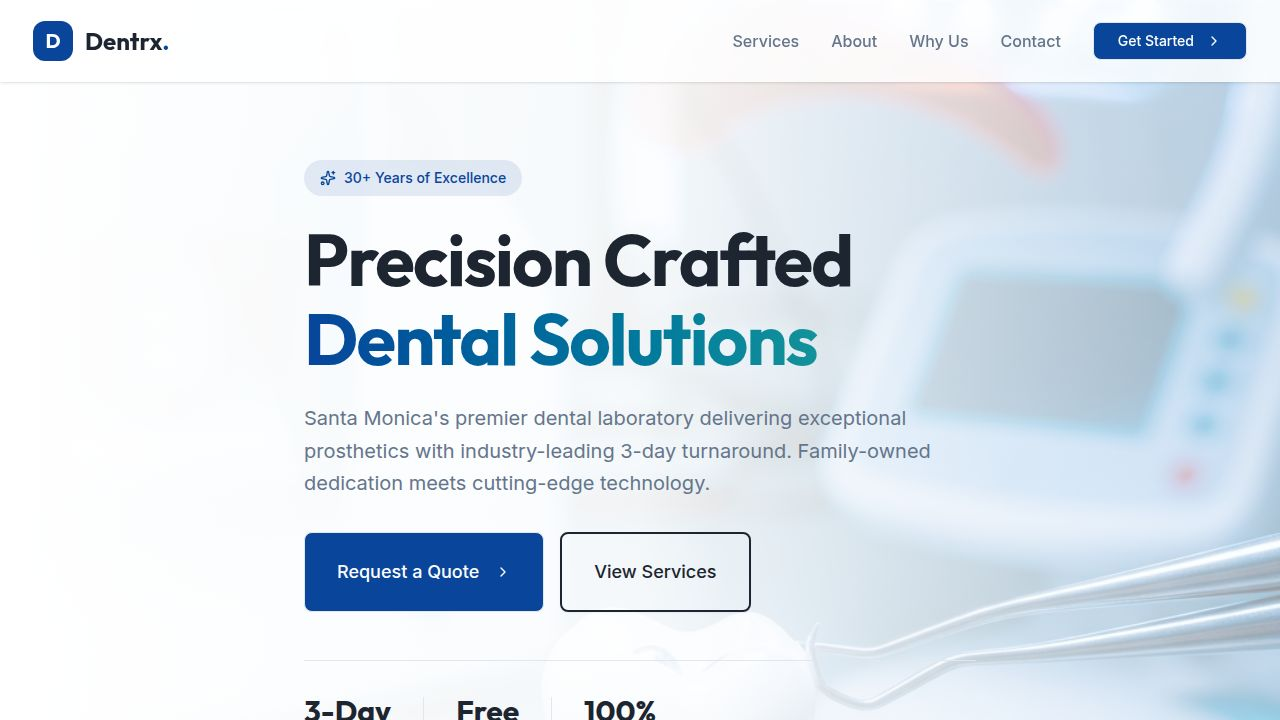
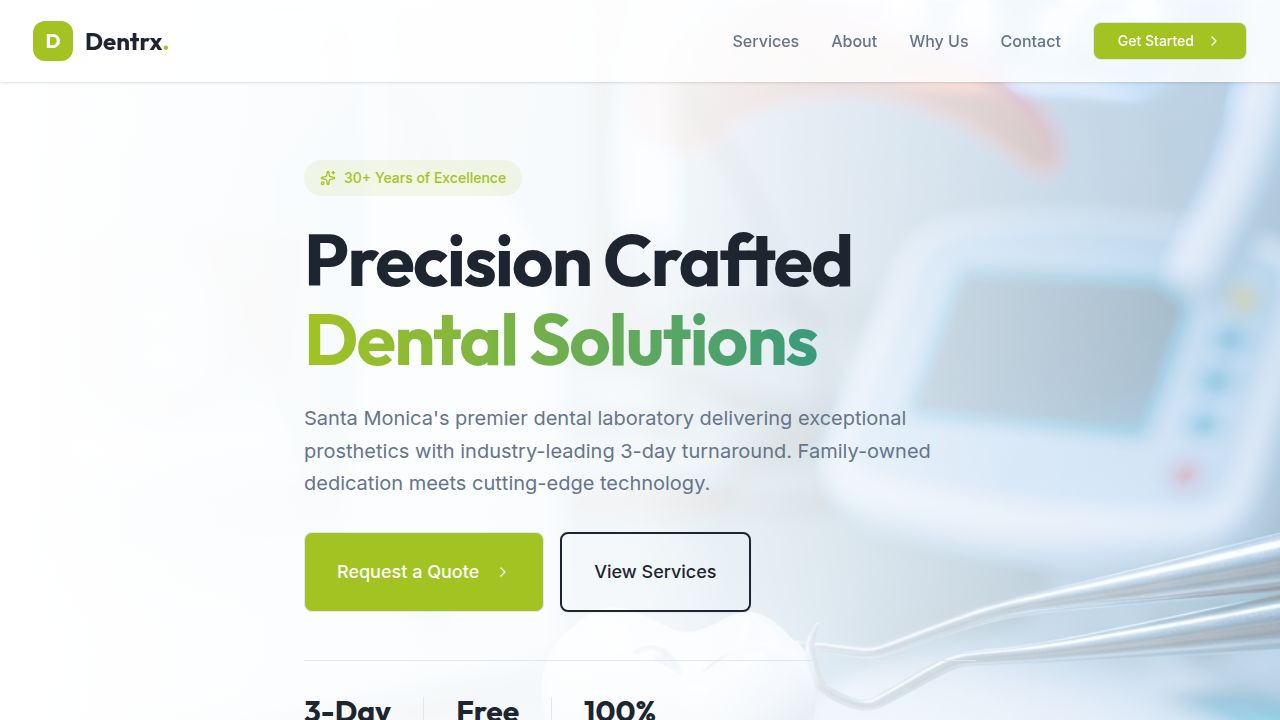
Update website colors to match user's request
Adjust CSS variables for primary, secondary, and accent colors, and update the text gradient to use yellow-green and vivid cyan hues.

Replit-Commit-Author: Agent
Replit-Commit-Session-Id: ae293f6e-1307-44bc-a22f-74ce93685ca6
Replit-Commit-Checkpoint-Type: full_checkpoint
Replit-Commit-Event-Id: 07a2cc05-3ba8-469b-94f8-c58b60cdfeed
Replit-Commit-Screenshot-Url: https://storage.googleapis.com/screenshot-production-us-central1/5dbe02da-63a0-4c26-adfe-20bfc0e38344/ae293f6e-1307-44bc-a22f-74ce93685ca6/fxBfQQv
Replit-Helium-Checkpoint-Created: true

diff --git a/client/src/index.css b/client/src/index.css
@@ -18,27 +18,27 @@
   --color-popover: hsl(0 0% 100%);
   --color-popover-foreground: hsl(215 25% 15%);
 
-  /* Primary: Deep Trusted Blue */
-  --color-primary: hsl(215 90% 32%);
+  /* Primary: Yellow-Green (Lime) */
+  --color-primary: hsl(72 70% 45%);
   --color-primary-foreground: hsl(0 0% 100%);
 
-  /* Secondary: Fresh Teal/Mint */
-  --color-secondary: hsl(172 66% 40%);
+  /* Secondary: Vivid Cyan/Teal */
+  --color-secondary: hsl(185 70% 35%);
   --color-secondary-foreground: hsl(0 0% 100%);
 
   /* Muted: Soft Slate */
   --color-muted: hsl(210 20% 92%);
   --color-muted-foreground: hsl(215 16% 47%);
 
-  --color-accent: hsl(210 40% 96%);
-  --color-accent-foreground: hsl(215 90% 32%);
+  --color-accent: hsl(72 40% 96%);
+  --color-accent-foreground: hsl(185 70% 35%);
 
   --color-destructive: hsl(0 84% 60%);
   --color-destructive-foreground: hsl(0 0% 98%);
 
   --color-border: hsl(214 32% 91%);
   --color-input: hsl(214 32% 91%);
-  --color-ring: hsl(215 90% 32%);
+  --color-ring: hsl(72 70% 45%);
 
   --color-sidebar: hsl(0 0% 98%);
   --color-sidebar-foreground: hsl(240 5.3% 26.1%);
@@ -74,6 +74,7 @@
     @apply bg-white/70 backdrop-blur-sm border border-white/50 shadow-md hover:shadow-lg transition-all duration-300;
   }
   .text-gradient {
-    @apply bg-clip-text text-transparent bg-linear-to-r from-primary to-secondary;
+    @apply bg-clip-text text-transparent;
+    background-image: linear-gradient(to right, hsl(72 70% 45%), hsl(185 70% 35%));
   }
 }
